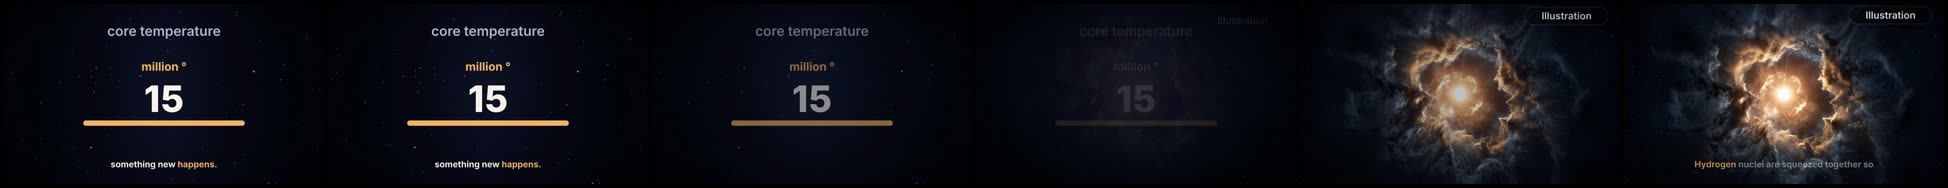
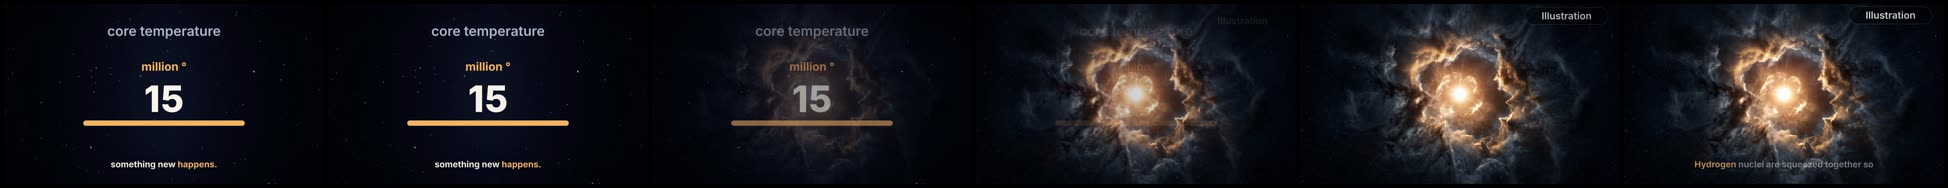
Diagram scenes show their main visual from the first frame; brighter starfield ground (QA black gate)
Claude-Session: https://claude.ai/code/session_012Y86JW5nZgfrz3SRH2Pv8X

diff --git a/videos/star-birth-to-black-hole-20261031/visuals/index.ts b/videos/star-birth-to-black-hole-20261031/visuals/index.ts
@@ -36,7 +36,7 @@ const starfield: VisualDef = {
     const svg = s("svg", { viewBox: "0 0 1000 1800", width: "100%", height: "100%", preserveAspectRatio: "xMidYMid slice" }, host);
     const defs = s("defs", {}, svg);
     s("rect", { x: 0, y: 0, width: 1000, height: 1800, fill: init.palette.bg }, svg);
-    s("rect", { x: 0, y: 0, width: 1000, height: 1800, fill: radial(defs, gid("neb"), [[0, "#1a2340", 0.55], [60, "#0d1222", 0.25], [100, init.palette.bg, 0]]) }, svg);
+    s("rect", { x: 0, y: 0, width: 1000, height: 1800, fill: radial(defs, gid("neb"), [[0, "#26335e", 0.75], [55, "#151d36", 0.45], [100, init.palette.bg, 0]]) }, svg);
     const r = rng(num(props.seed, 7));
     const tw: { el: SVGElement; ph: number; sp: number; base: number }[] = [];
     for (let i = 0; i < 420; i++) {

diff --git a/videos/star-birth-to-black-hole-20261031/build_scenes.py b/videos/star-birth-to-black-hole-20261031/build_scenes.py
@@ -164,7 +164,7 @@ S("s09", "protostar", ["C04_jets"],
 S("s10", "ignition", ["C05_ignition"],
   "The protostar keeps gaining mass, and its core gets hotter and denser. At about fifteen million degrees, something new happens.",
   "build to the threshold", "develop", "diagram",
-  [starfield(), vis("e_temp", "thermo", {"to": 15, "unit": "million °", "label": "core temperature"}, "a core-temperature readout climbing to about 15 million degrees", role="number", at=11),
+  [starfield(), vis("e_temp", "thermo", {"to": 15, "unit": "million °", "label": "core temperature", "over": 6.5}, "a core-temperature readout climbing to about 15 million degrees", role="number", at=11),
    txt("e_l", "core temperature", "context", at=9)],
   {"e_stars": STAR_L, "e_temp": P(0.5, 0.52, 0.6, 2), "e_l": P(0.5, 0.15, 0.36, 2)},
   {"e_stars": STAR_P, "e_temp": P(0.5, 0.45, 0.9, 2), "e_l": P(0.5, 0.3, 0.7, 2)},
@@ -185,7 +185,7 @@ S("s11", "ignition", ["C05_ignition"],
 S("s12", "balance", ["C06_balance"],
   "Now the real story begins. Gravity pulls every layer of the star inward. The heat from fusion pushes outward.",
   "make the central mechanism visible", "develop", "diagram",
-  [starfield(), vis("e_bal", "balance", {"inAt": 0.25, "outAt": 0.75}, "a star disc with inward gravity arrows and outward pressure arrows", at=0),
+  [starfield(), vis("e_bal", "balance", {"inAtS": 2.2, "outAtS": 6.3}, "a star disc with inward gravity arrows and outward pressure arrows", at=0),
    txt("e_g", "gravity: in", "label", at=6), txt("e_p", "pressure: out", "label", at=15)],
   {"e_stars": STAR_L, "e_bal": P(0.5, 0.5, 0.52, 2), "e_g": P(0.18, 0.5, 0.24, 3), "e_p": P(0.82, 0.5, 0.26, 3)},
   {"e_stars": STAR_P, "e_bal": P(0.5, 0.45, 0.95, 2), "e_g": P(0.5, 0.18, 0.56, 3), "e_p": P(0.5, 0.74, 0.6, 3)},
@@ -279,7 +279,7 @@ S("s21", "collapse", ["C14_iron"],
 S("s22", "collapse", ["C15_collapse"],
   "In less than a second, the core collapses. Its temperature soars past one hundred billion degrees.",
   "the fastest moment of the story", "develop", "diagram",
-  [starfield(), vis("e_col", "collapse", {"collapseAt": 0.6, "collapseS": 0.9}, "the iron core shrinking almost instantly, with a temperature readout", at=0),
+  [starfield(), vis("e_col", "collapse", {"collapseAtS": 2.0, "collapseS": 0.8}, "the iron core shrinking almost instantly, with a temperature readout", at=0),
    txt("e_s", "under 1 second", "number", at=2), txt("e_t", "over 100 billion °", "number", at=9)],
   {"e_stars": STAR_L, "e_col": P(0.5, 0.47, 0.42, 2), "e_s": P(0.17, 0.5, 0.26, 3), "e_t": P(0.83, 0.5, 0.28, 3)},
   {"e_stars": STAR_P, "e_col": P(0.5, 0.42, 0.9, 2), "e_s": P(0.5, 0.17, 0.62, 3), "e_t": P(0.5, 0.74, 0.7, 3)},
@@ -547,6 +547,13 @@ for sc in scenes:
     for lay in sc["layouts"].values():
         for k, v in lay["placements"].items():
             if k in ltexts: v["depth"] = 1.0   # labels follow the camera less (parallax), so pushes never carry them off-frame
+    # diagram scenes: the main visual is on screen from the first frame (a starfield alone reads as a black screen)
+    PRIMARY = {"s10": ["e_temp", "e_l"], "s12": ["e_bal"], "s14": ["e_two"], "s15": ["e_life"], "s17": ["e_fate"], "s19": ["e_onion"], "s20": ["e_onion"],
+               "s21": ["e_core"], "s22": ["e_col"], "s25": ["e_y"], "s28": ["e_bars", "e_t"], "s29": ["e_fork"], "s37": ["e_r0", "e_t0"]}
+    for e in sc["entities"]:
+        if e["id"] in PRIMARY.get(sc["id"], []):
+            e.pop("enterAtWord", None); e["enter"] = {"style": "fade", "durationMs": 250}
+        if e["id"] == "e_stars": e["enter"] = {"style": "none", "durationMs": 0}
     if not NO_ASSETS:
         sc["assetIds"] = sorted({e["assetId"] for e in sc["entities"] if e.get("assetId")})
 

diff --git a/videos/star-birth-to-black-hole-20261031/review/production-report.md b/videos/star-birth-to-black-hole-20261031/review/production-report.md
@@ -1,12 +1,12 @@
 # Production report - star-birth-to-black-hole-20261031
 
-Idea: How a star is born from the very first moment until it dies and becomes a black hole  ·  purpose: **production**  ·  made 2026-10-31T14:37:28
+Idea: How a star is born from the very first moment until it dies and becomes a black hole  ·  purpose: **production**  ·  made 2026-10-31T15:14:52
 
 ## Gate verdicts
 
 | target | file | media QA | motion QA | length | size |
 |---|---|---|---|---|---|
-| long | out/full-video.mp4 | FAILED | FAILED | 476.267 s | 1920x1080 |
+| long | out/full-video.mp4 | FAILED | PASSED | 476.267 s | 1920x1080 |
 
 A verdict is the gate's own result on the delivered file. WARN items are heuristics and are listed under "A person still has to look at". PASSED never means the video is good, only that none of these checks found a defect.
 
@@ -24,7 +24,7 @@ A verdict is the gate's own result on the delivered file. WARN items are heurist
 
 ## Render
 
-- long: 14288 frames at 30 fps, 82.3 ms/frame with 4 worker(s) = 1175.5 s of capture on this machine; a 60 fps render would take about 39.2 min
+- long: 14288 frames at 30 fps, 87 ms/frame with 4 worker(s) = 1242.5 s of capture on this machine; a 60 fps render would take about 41.4 min
 
 ## Voice and alignment
 
@@ -46,7 +46,6 @@ Creative preview gate: approved 2026-10-31T13:36:04 (creator chose 'cheaper appr
 
 - long: motion.s10>s11.audio (heuristic warning) - abrupt audio at 101.73s click 10.5
 - long: motion.s22>s23.smooth (heuristic warning) - a frame step is 3.2 levels above its neighbours' typical 3.2 (a jerk; smaller than a pop)
-- long: motion.s25>s26.audio (heuristic warning) - abrupt audio at 272.69s click 9.3
 - evidence: C01_pillars.evidence[0]: does this passage state the claim? ESA/Webb states the pillars are a site of ongoing star formation imaged by Webb. -> read the quote next to the claim text and confirm it says the same thing
 - evidence: C01_pillars.evidence[1]: does this passage state the claim? NASA confirms the pillars are cool gas and dust (the 'cold gas and dust' wording). -> read the quote next to the claim text and confirm it says the same thing
 - evidence: C02_cloud.evidence[0]: does this passage state the claim? Gives the mass range (upper end 10 million solar masses) and size. -> read the quote next to the claim text and confirm it says the same thing
